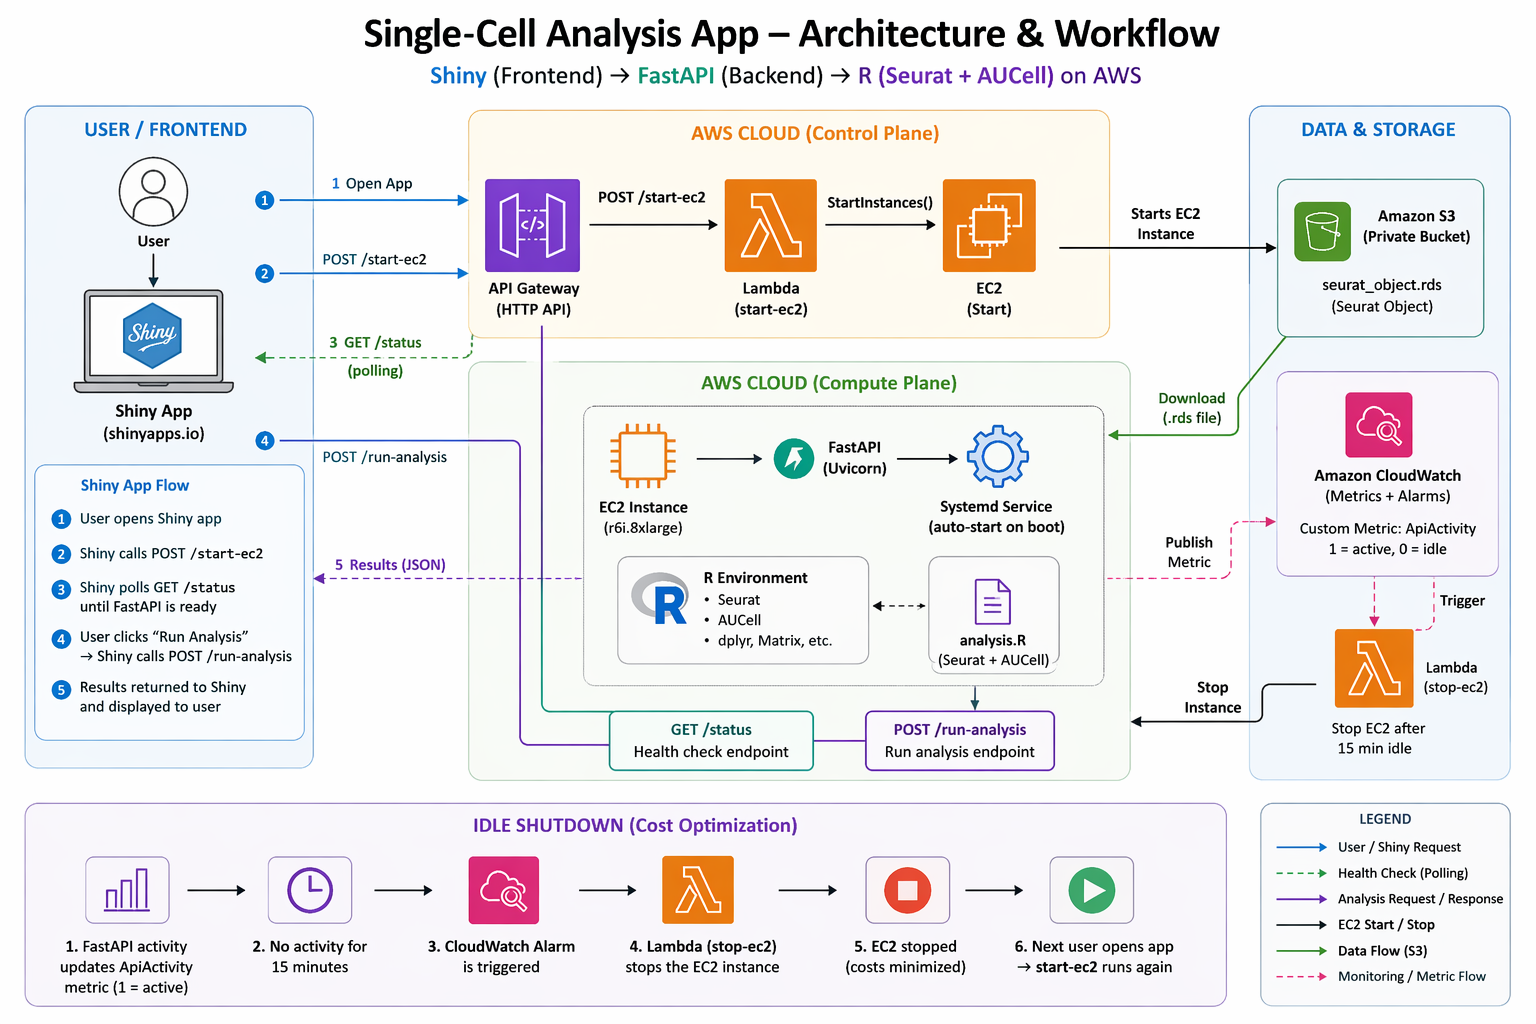
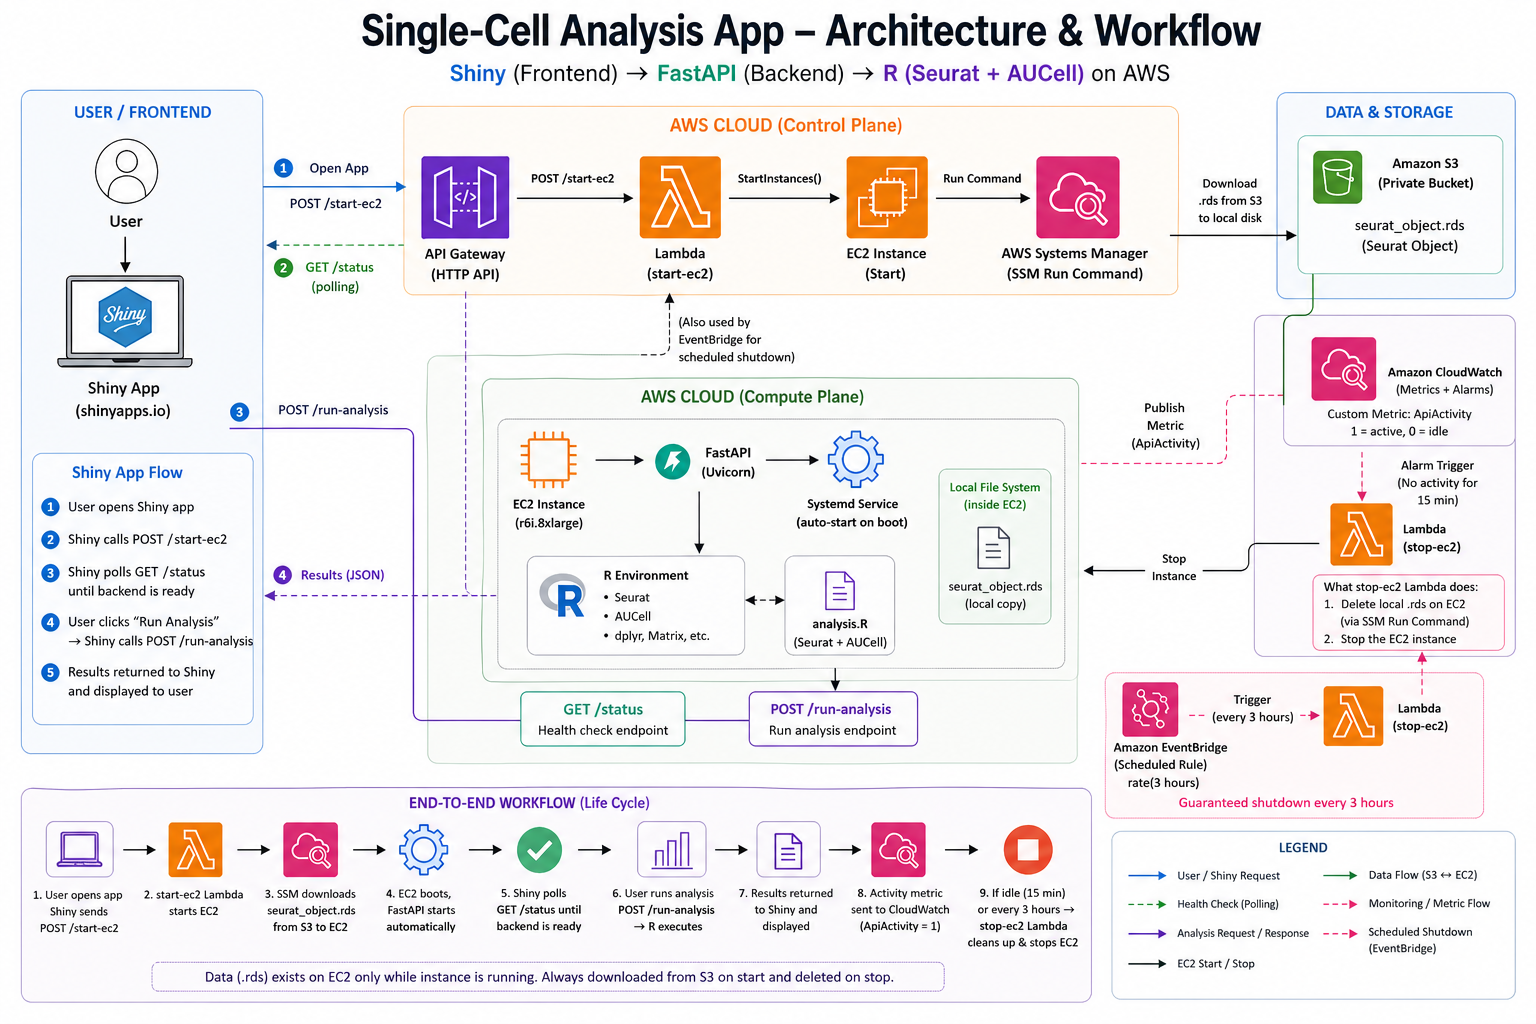
Update architecture diagram and docs to match full AWS design
- Replace diagram with the detailed version (SSM Run Command, EventBridge)
- Mermaid + text now cover: SSM-based .rds download/cleanup, dual shutdown
  (CloudWatch idle alarm + EventBridge 3-hour backstop via stop-ec2 Lambda),
  and the data lifecycle (.rds lives on EC2 only while running)

Changed region(s): [[0.0, 0.0, 1.0, 1.0]]

diff --git a/README.md b/README.md
@@ -20,33 +20,43 @@ off until someone actually needs it.** That single constraint explains every mov
 
 ```mermaid
 flowchart TD
-    visitor([Visitor browser])
+    visitor([User])
 
-    subgraph free["Free · always on"]
-        wakeup["wakeup_page.R<br/>on shinyapps.io"]
+    subgraph free["Frontend · free, always on"]
+        wakeup["Shiny App<br/>wakeup_page.R + app.R<br/>(shinyapps.io)"]
     end
 
-    subgraph serverless["AWS · serverless"]
-        apigw["API Gateway"]
-        lambda["Lambda<br/>ec2:StartInstances"]
-        cw["CloudWatch alarm<br/>auto-stops idle box"]
+    subgraph control["AWS Control Plane · serverless"]
+        apigw["API Gateway<br/>(HTTP API)"]
+        startL["Lambda<br/>(start-ec2)"]
+        ec2start["EC2<br/>(Start)"]
+        ssm["Systems Manager<br/>(SSM Run Command)"]
     end
 
-    subgraph ec2["EC2 instance · paid, on-demand, auto-stops"]
-        shiny["shiny-server → app.R"]
-        fastapi["FastAPI · main.py<br/>/run-analysis → Rscript"]
+    subgraph compute["AWS Compute Plane · EC2, on-demand"]
+        fastapi["FastAPI (Uvicorn)<br/>systemd auto-start<br/>/status · /run-analysis"]
         analysis["analysis.R<br/>Seurat + AUCell"]
+        localrds[("Local FS<br/>seurat_object.rds<br/>(copy, deleted on stop)")]
     end
 
-    s3[("S3 bucket<br/>Seurat .rds")]
+    subgraph shutdown["Shutdown triggers"]
+        cw["CloudWatch alarm<br/>idle 15 min"]
+        eventbridge["EventBridge rule<br/>every 3 hours"]
+        stopL["Lambda (stop-ec2)<br/>1· delete local .rds via SSM<br/>2· stop instance"]
+    end
 
-    visitor -->|"1 · open page"| wakeup
-    wakeup -->|"2 · POST /start-ec2"| apigw --> lambda --> ec2
+    s3[("Amazon S3<br/>private bucket<br/>seurat_object.rds")]
+
+    visitor -->|"1 · open app"| wakeup
+    wakeup -->|"2 · POST /start-ec2"| apigw --> startL -->|"StartInstances()"| ec2start --> ssm
+    ssm -->|"download .rds to local disk"| s3
     wakeup -.->|"3 · poll GET /status"| apigw
-    wakeup -->|"4 · open APP_URL once ready"| shiny
-    shiny -->|"localhost:8000"| fastapi --> analysis
-    fastapi -->|"downloads .rds on first run<br/>(analysis.R reads it locally)"| s3
-    fastapi -->|"ApiActivity metric"| cw -->|"stop when idle"| ec2
+    wakeup -->|"4 · POST /run-analysis"| fastapi --> analysis --> localrds
+    fastapi -.->|"5 · results (JSON)"| wakeup
+    fastapi -->|"publish ApiActivity metric"| cw
+    cw -->|"alarm"| stopL
+    eventbridge -->|"guaranteed shutdown"| stopL
+    stopL -->|"stop"| compute
 ```
 
 **Why two front-ends?**
@@ -57,8 +67,18 @@ flowchart TD
   by shiny-server, and talks to the backend at `localhost:8000`.
 
 Keeping the public page separate means the expensive EC2 instance can stay **stopped (and unbilled)**
-whenever nobody is using it. A CloudWatch alarm watches the `ApiActivity` metric that `main.py`
-emits and stops the instance once it goes idle.
+whenever nobody is using it. The box is shut down **two ways**, both via a `stop-ec2` Lambda:
+1. **Idle alarm** — `main.py` publishes an `ApiActivity` metric; a CloudWatch alarm fires after
+   ~15 minutes of no activity.
+2. **Guaranteed shutdown** — an EventBridge scheduled rule triggers the same Lambda every 3 hours,
+   as a backstop in case the idle alarm is missed.
+
+The `stop-ec2` Lambda first **deletes the local `.rds`** on the instance (via SSM Run Command),
+then stops it.
+
+**Data lifecycle:** the Seurat `.rds` lives permanently in a private S3 bucket. On **start**, an
+SSM Run Command downloads it to the instance's local disk; on **stop**, that local copy is deleted.
+So the data only exists on EC2 while the instance is actually running.
 
 **Why a separate Python backend instead of doing the analysis in Shiny?**
 The analysis needs Seurat + AUCell on a large `.rds` object. `backend/main.py` (FastAPI) runs each
@@ -94,22 +114,23 @@ A preset **Motoneuron gene list (Yadav et al.)** is built in for one-click testi
     └── fastapi.service   systemd unit so the backend runs as a service and restarts on crash.
 ```
 
-> **Not in this repo (but required to run in production):** the API Gateway + Lambda behind
-> `POST /start-ec2` and `GET /status`, the CloudWatch auto-stop alarm, the `backend/.env` secrets,
-> and the `.rds` data file (it lives in S3).
+> **Not in this repo (but required to run in production):** the API Gateway + `start-ec2`/`stop-ec2`
+> Lambdas, the SSM Run Command documents (download/delete the `.rds`), the CloudWatch idle alarm,
+> the EventBridge 3-hour shutdown rule, the `backend/.env` secrets, and the `.rds` data file (S3).
 
 ---
 
 ## Runtime workflow (what happens on a visit)
 
 1. A visitor opens the shinyapps.io page → `wakeup_page.R` loads.
-2. Its JavaScript calls `POST {API_BASE}/start-ec2`, which triggers a Lambda that starts the EC2 box.
-3. The page polls `GET {API_BASE}/status` every 5s, showing a progress bar ("Instance is booting…").
-4. Once `/status` returns ready, the page opens `APP_URL` → the real `app.R` on EC2.
-5. In `app.R`, the user enters genes and clicks **Compute Score** / **Find Active Cells**.
-6. `app.R` calls `POST localhost:8000/run-analysis` → gets a `job_id`.
-7. `main.py` runs `analysis.R` in the background; `app.R` polls `GET /result/{job_id}` every 4s.
-8. When done, the JSON result comes back and the plots render. After idle time, CloudWatch stops the box.
+2. Its JavaScript calls `POST {API_BASE}/start-ec2`, which triggers the `start-ec2` Lambda → starts the EC2 box.
+3. On boot, an SSM Run Command downloads the `.rds` from S3 to the instance's local disk.
+4. The page polls `GET {API_BASE}/status` every 5s, showing a progress bar ("Instance is booting…").
+5. Once `/status` returns ready, the page opens `APP_URL` → the real `app.R` on EC2.
+6. In `app.R`, the user enters genes and clicks **Compute Score** / **Find Active Cells**.
+7. `app.R` calls `POST localhost:8000/run-analysis` → gets a `job_id`, then polls `GET /result/{job_id}` every 4s.
+8. `main.py` runs `analysis.R` in the background; when done, the JSON result comes back and the plots render.
+9. After ~15 min idle (or every 3 hours regardless), the `stop-ec2` Lambda deletes the local `.rds` and stops the box.
 
 ---
 
@@ -167,8 +188,11 @@ CW_NAMESPACE=NRP/ShinyApp
    reachable at `http://<EC2-IP>:3838/nrp/`.
 
 **B. Wake-up / auto-stop infra** (currently configured only in the AWS console — see note above)
-- API Gateway + Lambda for `POST /start-ec2` (`ec2:StartInstances`) and `GET /status`.
-- CloudWatch alarm on `NRP/ShinyApp → ApiActivity` that stops the idle instance.
+- API Gateway + `start-ec2` Lambda (`ec2:StartInstances`) and the `GET /status` health route.
+- SSM Run Command documents that download the `.rds` from S3 on start and delete it on stop.
+- `stop-ec2` Lambda that deletes the local `.rds` (via SSM) and stops the instance.
+- CloudWatch alarm on `NRP/ShinyApp → ApiActivity` (idle ~15 min) → `stop-ec2`.
+- EventBridge scheduled rule (every 3 hours) → `stop-ec2`, as a guaranteed-shutdown backstop.
 
 **C. Public landing page**
 - Set `NRP_API_BASE` and `NRP_APP_URL`, then publish `frontend/wakeup_page.R` to shinyapps.io.
